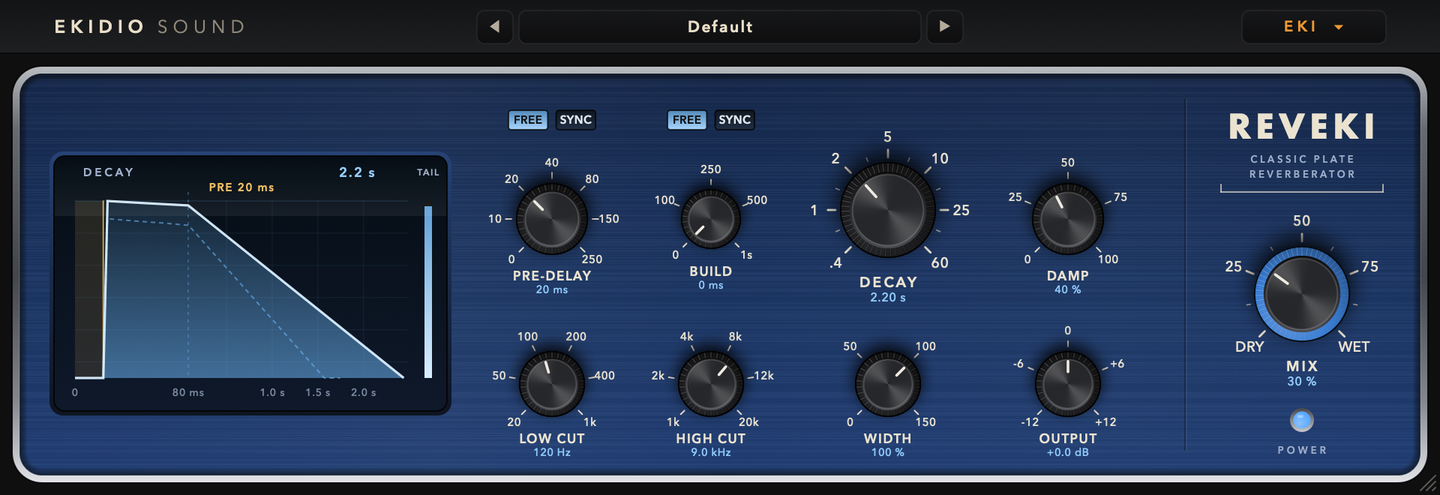
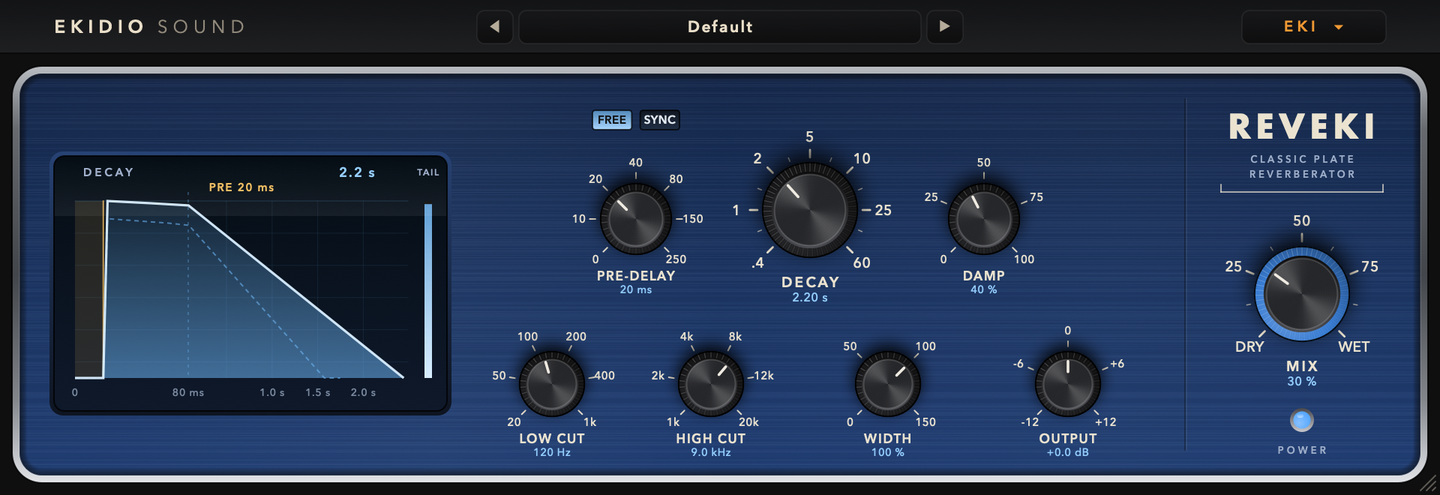
REVEKI 1.0.1: page text without BUILD, download link, version.json, panel image and NEW PLUGIN cover

Changed region(s): [[0.3438, 0.303, 0.7812, 0.6061], [0.3438, 0.2121, 0.5312, 0.2727]]

diff --git a/docs/hu/index.html b/docs/hu/index.html
@@ -68,7 +68,7 @@
     <p class="tag"><b>Analóg lélek a digitális mixeidben — teljesen ingyen.</b><br>Fedezd fel az EKIDIO SOUND folyamatosan növekvő macOS plugin-arzenálját: zenei kompresszorok, analóg szalag, csöves simítás, zengető, delay és mastering processzorok kompromisszumok nélkül. Próbáld ki őket a legújabb projektedben!</p>
     <div class="req"><b style="color:var(--amber)">Csak Audio Unit (AU)</b> · macOS 11 vagy újabb · Apple Silicon és Intel · Logic Pro, GarageBand, Ableton Live, Reaper és más AU-hostok</div>
   </div>
-  <a class="shot" href="#space"><img src="../assets/new-plugin.jpg?v=rd1" alt="Új pluginok: REVEKI lemezes zengető és DELEKI sztereó delay"></a>
+  <a class="shot" href="#space"><img src="../assets/new-plugin.jpg?v=rd2" alt="Új pluginok: REVEKI lemezes zengető és DELEKI sztereó delay"></a>
 </header>
 
 <section>
@@ -156,10 +156,10 @@
     <h2>Tér és idő</h2>
     <p class="lead">Tedd térbe a hangjaidat, és hagyd visszhangozni őket — egy klasszikus lemezes zengető és egy kristálytiszta sztereó delay, ha kell, mindkettő a dal tempójához igazodva.</p>
     <div>
-      <div class="plugin" id="reveki"><img src="../assets/reveki.png" alt="REVEKI"><div><h3>REVEKI</h3><div class="kind">Klasszikus lemezes zengető</div>
-        <p>A klasszikus stúdió-lemezzengetők buja, sűrű csillogása. A PRE-DELAY és a BUILD (szabadon vagy a tempóhoz szinkronizálva) formálja a kezdetet, a DECAY a rövid csattanástól a 60 másodperces terekig nyúlik, a DAMP sötétíti a lecsengést, a FREEZE pedig örökre kitartja. Az élő lecsengés-ablak pontosan azt mutatja, amit hallasz.</p>
+      <div class="plugin" id="reveki"><img src="../assets/reveki.png?v=101" alt="REVEKI"><div><h3>REVEKI</h3><div class="kind">Klasszikus lemezes zengető</div>
+        <p>A klasszikus stúdió-lemezzengetők buja, sűrű csillogása. A PRE-DELAY (szabadon vagy a tempóhoz szinkronizálva) állítja a kezdetet, a DECAY a rövid csattanástól a 60 másodperces terekig nyúlik, a DAMP sötétíti a lecsengést, a FREEZE pedig örökre kitartja. Az élő lecsengés-ablak pontosan azt mutatja, amit hallasz.</p>
         <p class="use">Ének, pergő, kórus, padek, ambient terek.</p>
-        <p><a class="btn primary" href="https://github.com/Ekidio/ekidio_sound_plugins/releases/download/reveki-v1.0.0/EKIDIO-SOUND-REVEKI-1.0.0.dmg">REVEKI letöltése</a></p></div></div>
+        <p><a class="btn primary" href="https://github.com/Ekidio/ekidio_sound_plugins/releases/download/reveki-v1.0.1/EKIDIO-SOUND-REVEKI-1.0.1.dmg">REVEKI letöltése</a></p></div></div>
       <div class="plugin" id="deleki"><img src="../assets/deleki.png" alt="DELEKI"><div><h3>DELEKI</h3><div class="kind">Tiszta sztereó delay</div>
         <p>Kristálytiszta digitális visszhangok, amelyek jobbra-balra pattognak. TIME ezredmásodpercben vagy a DAW tempójához zárt hangjegyértékekben (egyenes, pontozott, triola), PING-PONG vagy STEREO mód OFFSET-tel a szélességért, a visszacsatolásban LOW CUT és HIGH CUT, hogy minden ismétlés tisztább és sötétebb legyen, a DUCK pedig az ének alá húzza a visszhangokat, és a szünetekben kivirágoztatja őket. Pontozott nyolcados, dub-ízű pattogással indul, amit az első lejátszásra megszeretsz.</p>
         <p class="use">Ének-dobások, gitár, szinti, dub, széles duplázás.</p>

diff --git a/docs/index.html b/docs/index.html
@@ -68,7 +68,7 @@
     <p class="tag"><b>Analog soul in your digital mixes — completely free.</b><br>Discover the ever-growing EKIDIO SOUND plugin arsenal for macOS: musical compressors, analog tape, tube smoothing, reverb, delay and mastering processors, with no compromises. Try them in your latest project!</p>
     <div class="req"><b style="color:var(--amber)">Audio Unit (AU) only</b> · macOS 11 or newer · Apple Silicon &amp; Intel · Logic Pro, GarageBand, Ableton Live, Reaper and other AU hosts</div>
   </div>
-  <a class="shot" href="#space"><img src="assets/new-plugin.jpg?v=rd1" alt="New plugins: REVEKI plate reverb and DELEKI stereo delay"></a>
+  <a class="shot" href="#space"><img src="assets/new-plugin.jpg?v=rd2" alt="New plugins: REVEKI plate reverb and DELEKI stereo delay"></a>
 </header>
 
 <section>
@@ -156,10 +156,10 @@
     <h2>Space &amp; Time</h2>
     <p class="lead">Put your sounds in a room and let them echo — a classic plate reverb and a crystal-clear stereo delay, both locked to your song's tempo when you want them to be.</p>
     <div>
-      <div class="plugin" id="reveki"><img src="assets/reveki.png" alt="REVEKI"><div><h3>REVEKI</h3><div class="kind">Classic plate reverb</div>
-        <p>The lush, dense shimmer of a classic studio plate. PRE-DELAY and BUILD (free or synced to the tempo) shape the start, DECAY runs from tight slaps to 60-second washes, DAMP darkens the tail and FREEZE holds it forever. The live decay window shows exactly what you hear.</p>
+      <div class="plugin" id="reveki"><img src="assets/reveki.png?v=101" alt="REVEKI"><div><h3>REVEKI</h3><div class="kind">Classic plate reverb</div>
+        <p>The lush, dense shimmer of a classic studio plate. PRE-DELAY (free or synced to the tempo) sets the start, DECAY runs from tight slaps to 60-second washes, DAMP darkens the tail and FREEZE holds it forever. The live decay window shows exactly what you hear.</p>
         <p class="use">Vocals, snare, choirs, pads, ambient washes.</p>
-        <p><a class="btn primary" href="https://github.com/Ekidio/ekidio_sound_plugins/releases/download/reveki-v1.0.0/EKIDIO-SOUND-REVEKI-1.0.0.dmg">Download REVEKI</a></p></div></div>
+        <p><a class="btn primary" href="https://github.com/Ekidio/ekidio_sound_plugins/releases/download/reveki-v1.0.1/EKIDIO-SOUND-REVEKI-1.0.1.dmg">Download REVEKI</a></p></div></div>
       <div class="plugin" id="deleki"><img src="assets/deleki.png" alt="DELEKI"><div><h3>DELEKI</h3><div class="kind">Clean stereo delay</div>
         <p>Crystal-clear digital echoes that bounce from left to right. TIME in milliseconds or in note values locked to your DAW (straight, dotted, triplet), PING-PONG or STEREO with an OFFSET for width, LOW CUT and HIGH CUT inside the feedback loop so every repeat gets cleaner and darker, and DUCK that tucks the echoes under the vocal and lets them bloom in the gaps. It starts on a dub-style dotted-eighth bounce you will love on the first play.</p>
         <p class="use">Vocal throws, guitars, synths, dub, wide doubling.</p>

diff --git a/README.md b/README.md
@@ -3,7 +3,7 @@
 Eighteen free, analog-inspired plugins for macOS (Audio Unit / AUv2): eight compressors, a character EQ, a soft tube air enhancer, an analog tape machine, a limiter, three mastering tools, a passive tube equalizer set, a plate reverb and a stereo delay.
 
 **Website:** https://ekidio.github.io/ekidio_sound_plugins/ · [Magyar](https://ekidio.github.io/ekidio_sound_plugins/hu/)
-**Download:** [Compressor Collection, 8 compressors (v1.3.0)](https://github.com/Ekidio/ekidio_sound_plugins/releases/tag/v1.3.0) · [DYNEKI-6](https://github.com/Ekidio/ekidio_sound_plugins/releases/tag/dyneki-v1.1.0) · [SATEKI](https://github.com/Ekidio/ekidio_sound_plugins/releases/tag/sateki-v1.0.0) · [TAPEKI](https://github.com/Ekidio/ekidio_sound_plugins/releases/tag/tapeki-v1.0.1) · [MASTEQUI](https://github.com/Ekidio/ekidio_sound_plugins/releases/tag/mastequi-v1.0.0) · [PULTEKI](https://github.com/Ekidio/ekidio_sound_plugins/releases/tag/pulteki-v1.0.0) · [EK1](https://github.com/Ekidio/ekidio_sound_plugins/releases/tag/ek1-v1.1.0) · [EKIPPER](https://github.com/Ekidio/ekidio_sound_plugins/releases/tag/ekipper-v1.0.0) · [LIMEKI](https://github.com/Ekidio/ekidio_sound_plugins/releases/tag/limeki-v1.1.0) · [REVEKI](https://github.com/Ekidio/ekidio_sound_plugins/releases/tag/reveki-v1.0.0) · [DELEKI](https://github.com/Ekidio/ekidio_sound_plugins/releases/tag/deleki-v1.0.0)
+**Download:** [Compressor Collection, 8 compressors (v1.3.0)](https://github.com/Ekidio/ekidio_sound_plugins/releases/tag/v1.3.0) · [DYNEKI-6](https://github.com/Ekidio/ekidio_sound_plugins/releases/tag/dyneki-v1.1.0) · [SATEKI](https://github.com/Ekidio/ekidio_sound_plugins/releases/tag/sateki-v1.0.0) · [TAPEKI](https://github.com/Ekidio/ekidio_sound_plugins/releases/tag/tapeki-v1.0.1) · [MASTEQUI](https://github.com/Ekidio/ekidio_sound_plugins/releases/tag/mastequi-v1.0.0) · [PULTEKI](https://github.com/Ekidio/ekidio_sound_plugins/releases/tag/pulteki-v1.0.0) · [EK1](https://github.com/Ekidio/ekidio_sound_plugins/releases/tag/ek1-v1.1.0) · [EKIPPER](https://github.com/Ekidio/ekidio_sound_plugins/releases/tag/ekipper-v1.0.0) · [LIMEKI](https://github.com/Ekidio/ekidio_sound_plugins/releases/tag/limeki-v1.1.0) · [REVEKI](https://github.com/Ekidio/ekidio_sound_plugins/releases/tag/reveki-v1.0.1) · [DELEKI](https://github.com/Ekidio/ekidio_sound_plugins/releases/tag/deleki-v1.0.0)
 
 ![New plugins: REVEKI and DELEKI](docs/assets/new-plugin.jpg)
 
@@ -25,7 +25,7 @@ Eighteen free, analog-inspired plugins for macOS (Audio Unit / AUv2): eight comp
 | **MASTEQUI** | three-band mastering EQ with low and air shelves, 2× linear-phase oversampling — separate installer |
 | **PULTEKI** | passive tube equalizer set: program EQ, mid-range EQ and filter in one rack, extra clean — separate installer |
 | **EKIPPER** | soft clipper (DRIVE, OUTPUT, 2× / 4× / 8× oversampling) — separate installer |
-| **REVEKI** | classic plate reverb (PRE-DELAY and BUILD with tempo sync, DECAY up to 60 s, DAMP, FREEZE, live decay window) — separate installer |
+| **REVEKI** | classic plate reverb (PRE-DELAY with tempo sync, DECAY up to 60 s, DAMP, FREEZE, live decay window) — separate installer |
 | **DELEKI** | clean stereo delay (TIME with tempo sync, PING-PONG / STEREO, OFFSET, FEEDBACK with LOW / HIGH CUT in the loop, DUCK, FREEZE) — separate installer |
 
 Requirements: macOS 11+, Apple Silicon or Intel, an AU host (Logic Pro, GarageBand, Ableton Live, Reaper…). **Audio Unit (AU) only** — no VST3 version is planned.
